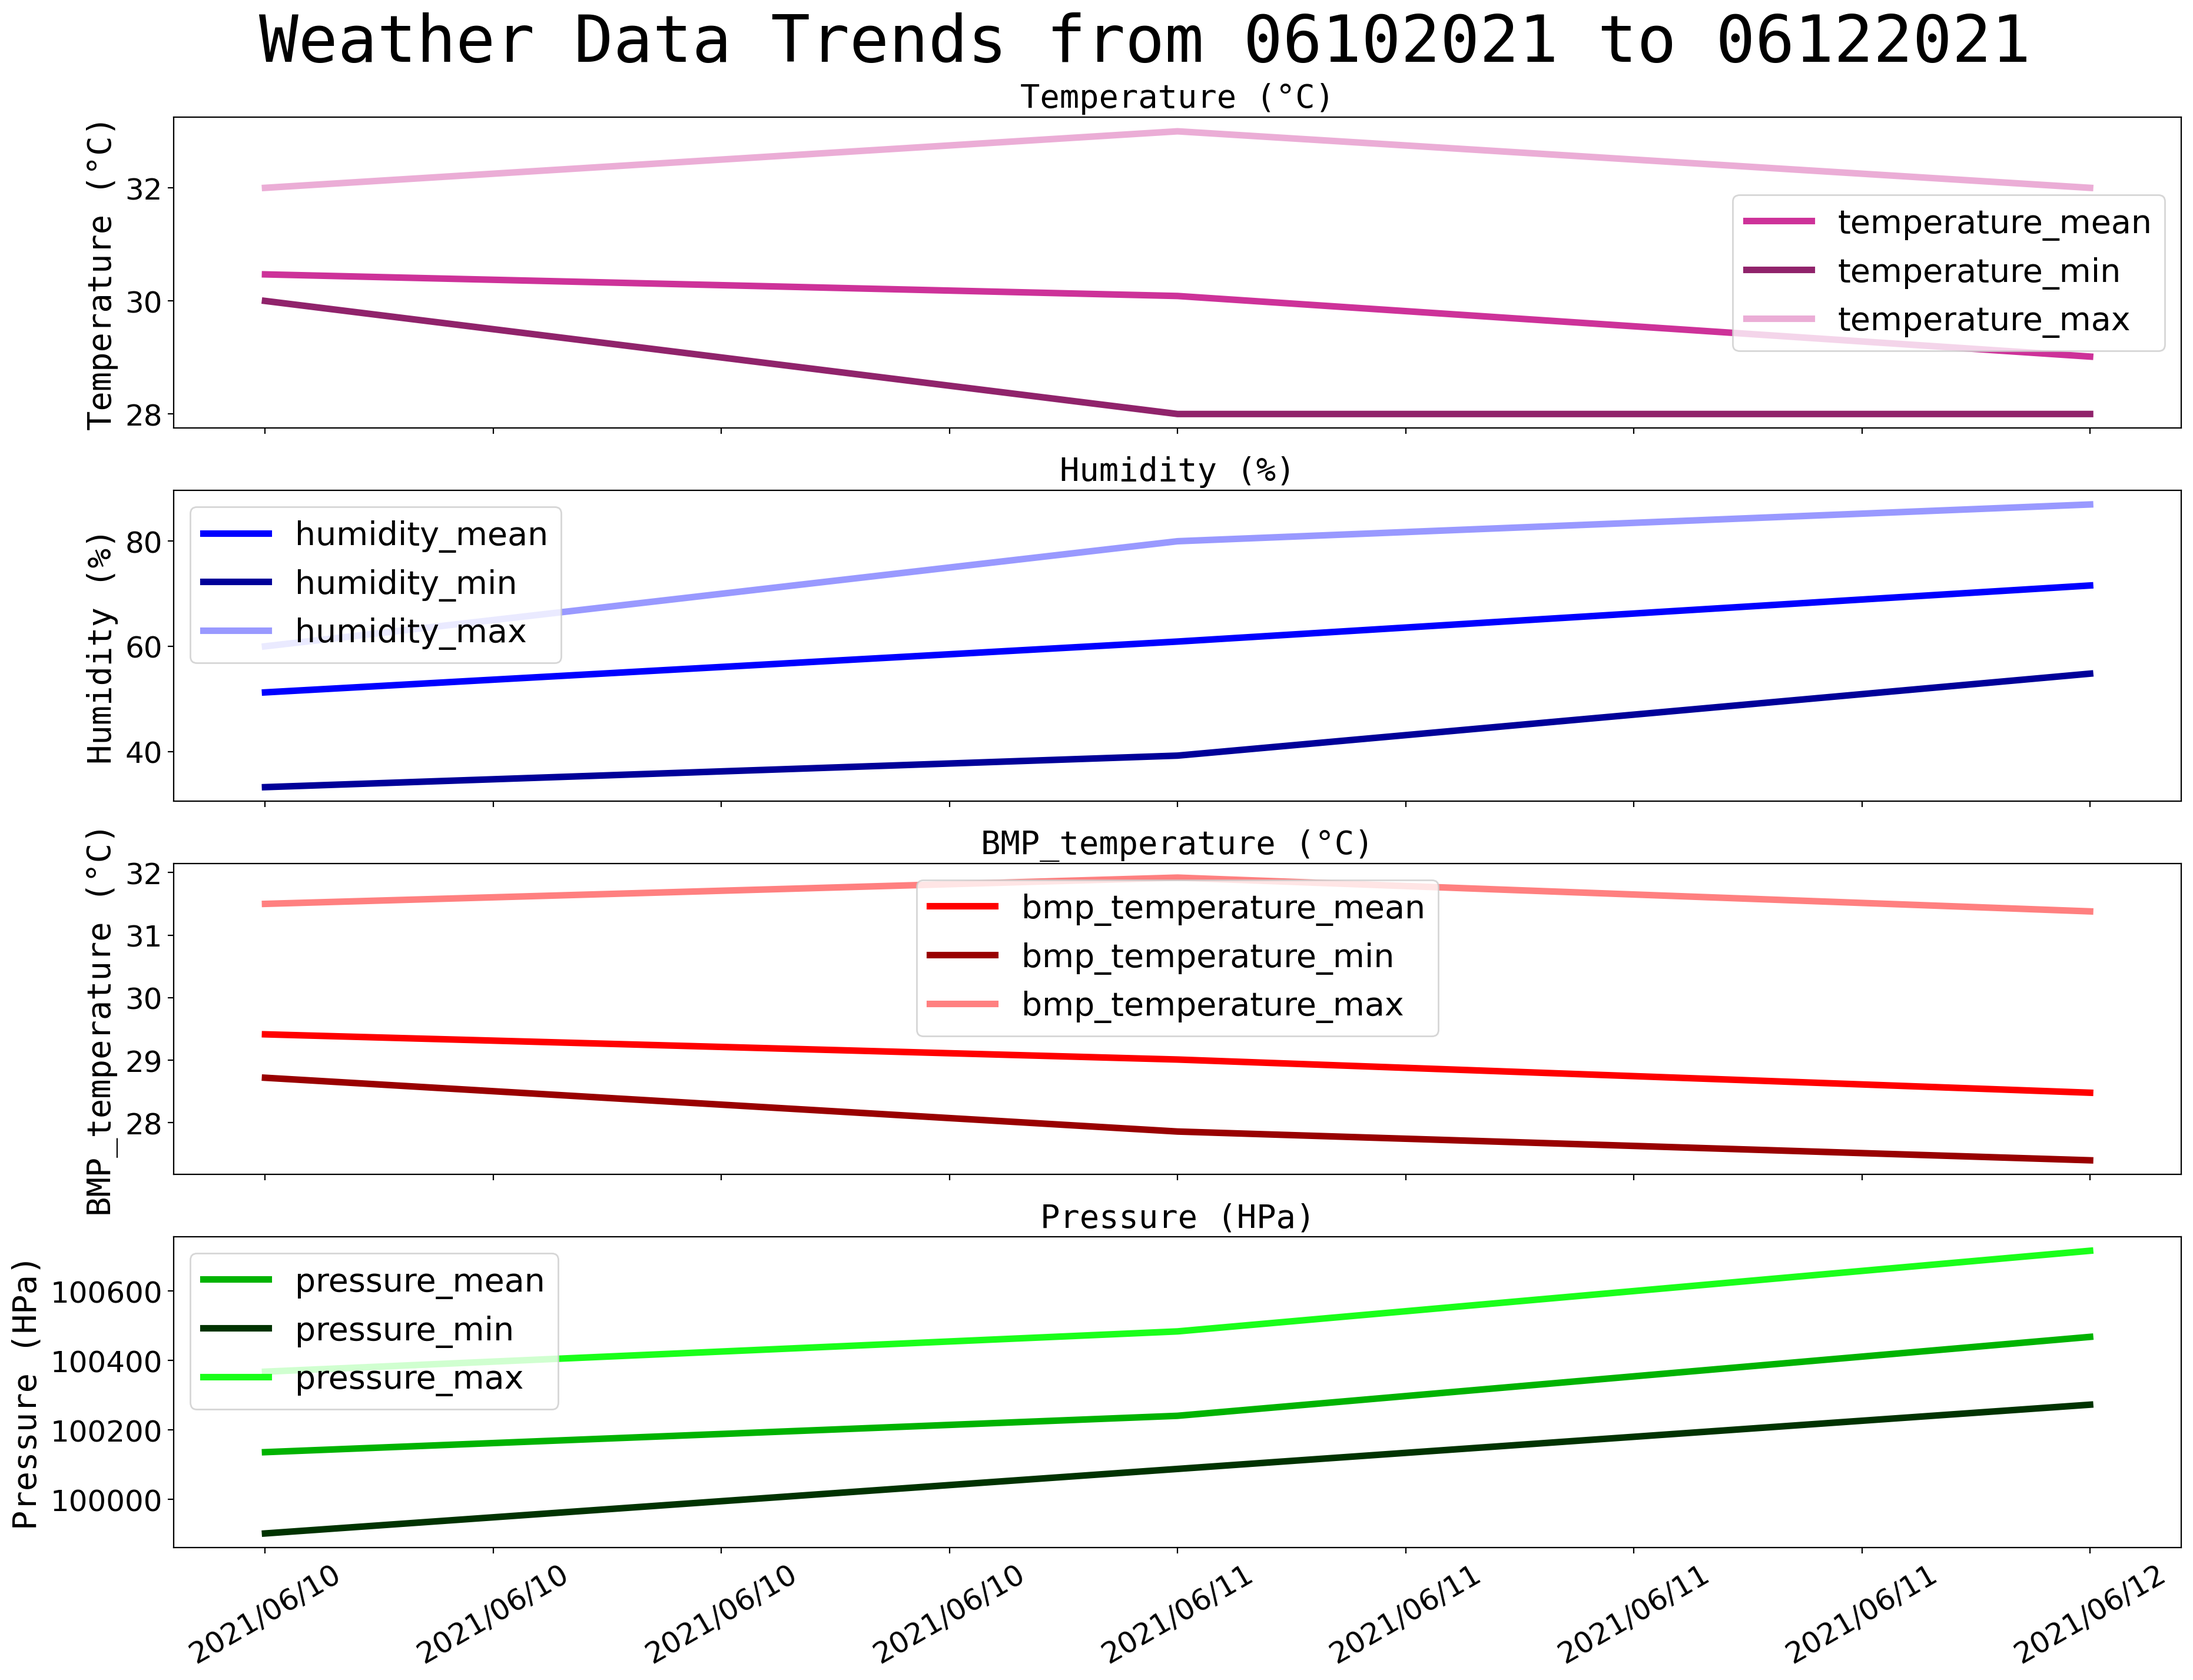
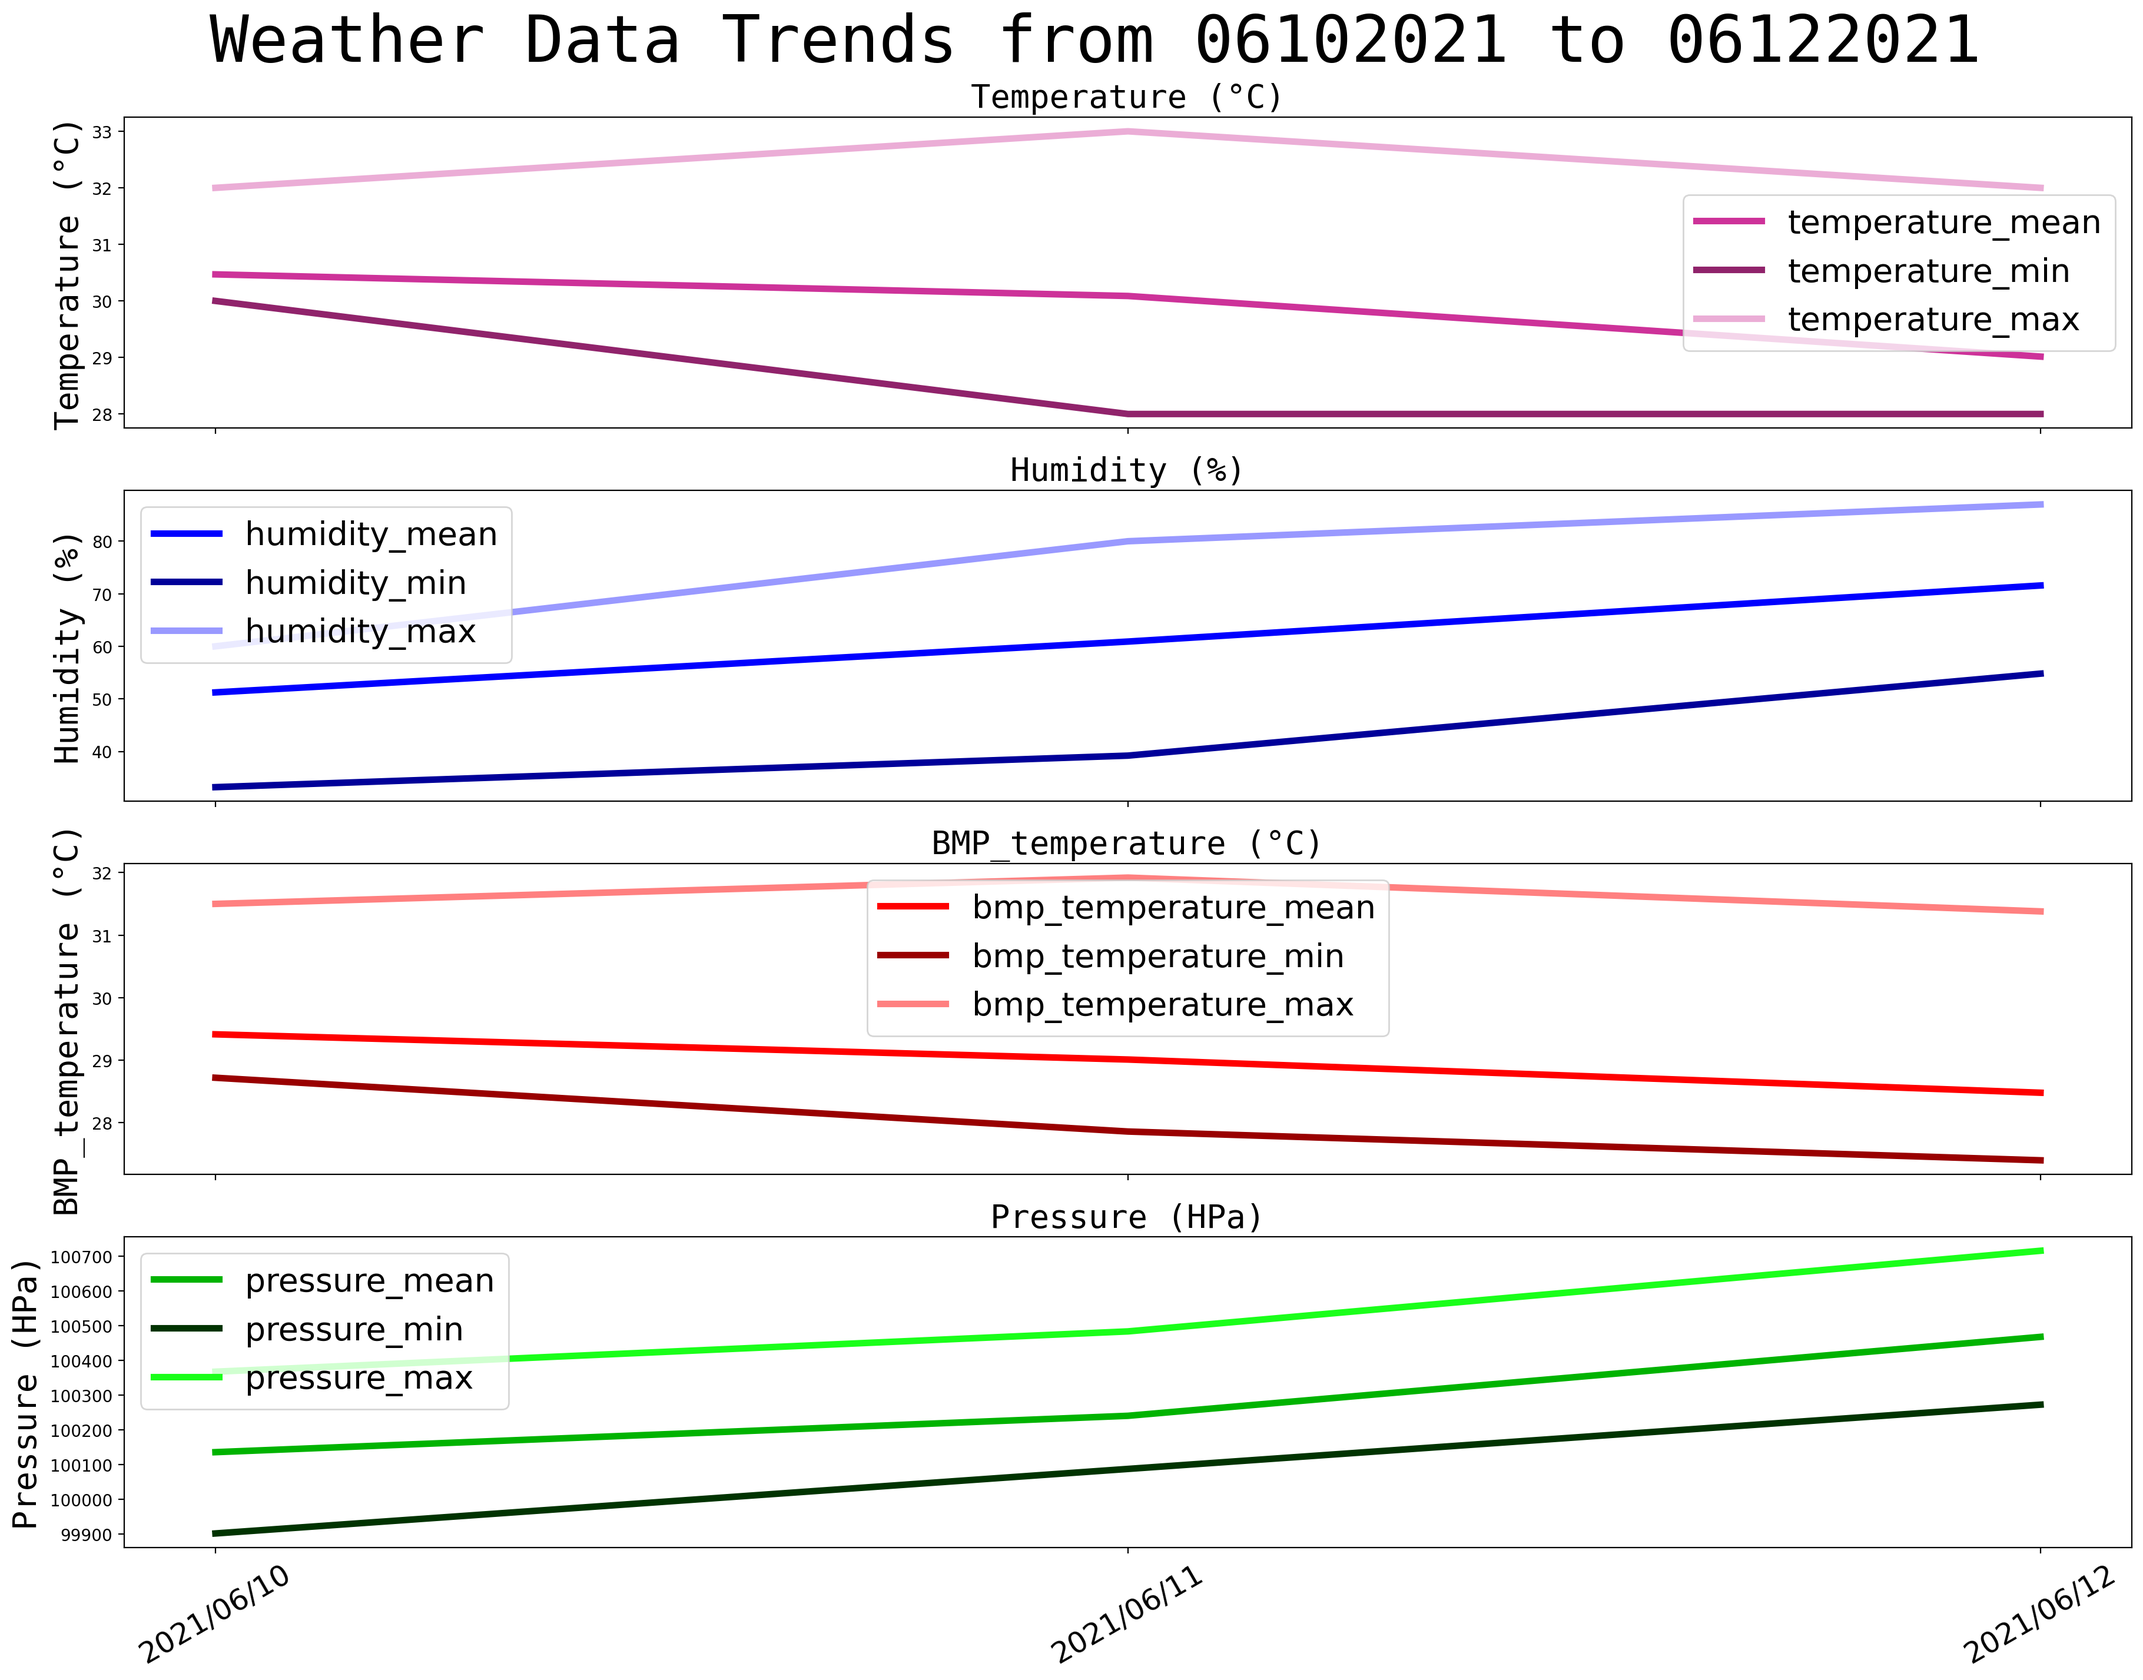
fixed some minor problems with plotting

diff --git a/app/observe_daily_trends.py b/app/observe_daily_trends.py
@@ -172,9 +172,6 @@ with open(APP_DATA_PATH + DAILY_TRENDS_PREFIX + '{}_{}.txt'.format(startdatestr,
         file.write(nl('{} max_max_days: {}'.format(t, aggdata_overall[t]['max_max_days'])))
         file.write(nl(''))
     file.write(nl(''))
- 
-# ~ print(pivoted_aggdata_df.index.values)
-# ~ print(len(pivoted_aggdata_df['dhthumd']['mean']))
 
 # generate graph if graph option is set
 if args.graph:
@@ -190,14 +187,17 @@ if args.graph:
 
     # set the time format to HH:MM
     timeformat = mdates.DateFormatter('%Y/%m/%d')
+    fmt_day = mdates.DayLocator()
 
     # set the subplots and figure size
     figure, axes = plt.subplots(4,1, figsize=(22, 15), sharex=True)
-
+    print(type(axes[0]))
+    
     # super title
     figure.suptitle('Weather Data Trends from {} to {}'.format(startdate.strftime('%m%d%Y'), \
     enddate.strftime('%m%d%Y')), fontdict=suptitlefont, fontsize=40)
-	
+	# Major ticks every 6 months.
+
     # subgraph for temperature
     axes[0].set_title(WEATHER_DATA_LIST[0], fontdict=titlefont)
     axes[0].set_ylabel(WEATHER_DATA_LIST[0], fontdict=axisfont)
@@ -233,10 +233,11 @@ if args.graph:
     # specify time format of x-axis
     for axis in axes:
         axis.xaxis.set_major_formatter(timeformat)
-        axis.xaxis_date()
         # set tick font size and rotation for all subplots
-        axis.tick_params(labelsize=18)
-        axis.tick_params(axis='x',labelrotation=30)
+        axis.tick_params()
+        axis.tick_params(labelsize=18, axis='x',labelrotation=30)
+        axis.xaxis_date()
+    plt.gca().xaxis.set_major_locator(fmt_day)
 
     figure.subplots_adjust(top=0.92)
     # plt.tight_layout()
